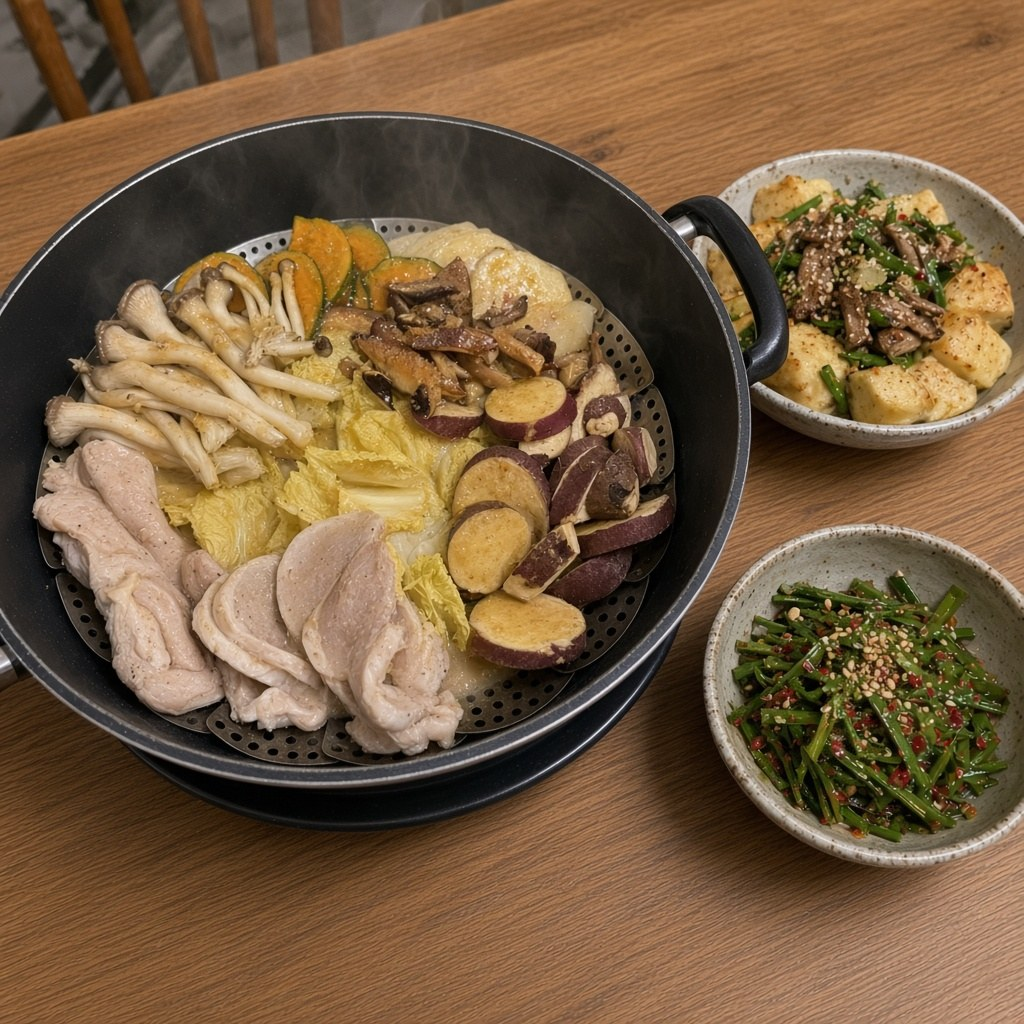
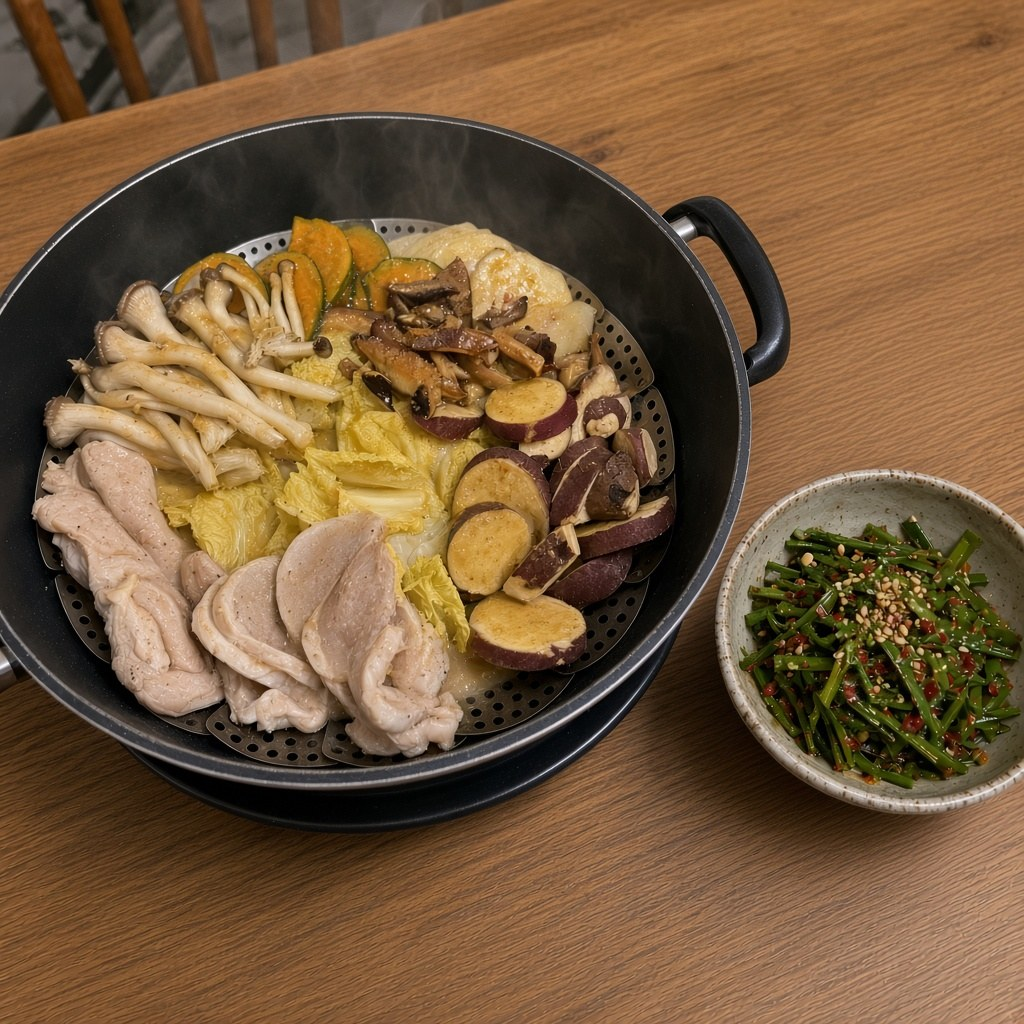
fix: drop tofu side from steam-buchujang hero
Keep only the steamer and a single buchujang chive namul bowl.

diff --git a/tests/dinner-visual.test.js b/tests/dinner-visual.test.js
@@ -22,7 +22,7 @@ test('maps 야채찜 + garlic soy to prebaked steam composite', () => {
     patternName: '야채찜',
     sauceName: '마늘 간장 소스',
   });
-  assert.match(v.imageSrc, /dinner\/steam-garlic-soy\.jpg\?v=.*20261111h/);
+  assert.match(v.imageSrc, /dinner\/steam-garlic-soy\.jpg\?v=.*20261111i/);
   assert.equal(v.sauceShortName, '마늘 간장 소스');
   assert.equal(v.sauceTextureSrc, null);
 });

diff --git a/src/domain/dinnerVisual.js b/src/domain/dinnerVisual.js
@@ -91,7 +91,7 @@ export function resolveDinnerVisual(state, dinnerLike = {}) {
 }
 
 /** Bump when replacing public/dinner/*.jpg in place so SW/CDN drop old bytes. */
-const DINNER_ASSET_REV = '20261111h';
+const DINNER_ASSET_REV = '20261111i';
 
 function assetVersion() {
   const id = String(APP_BUILD_ID || '');
